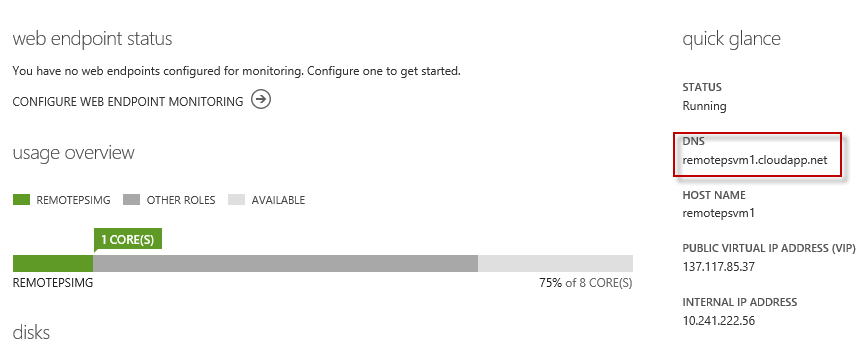
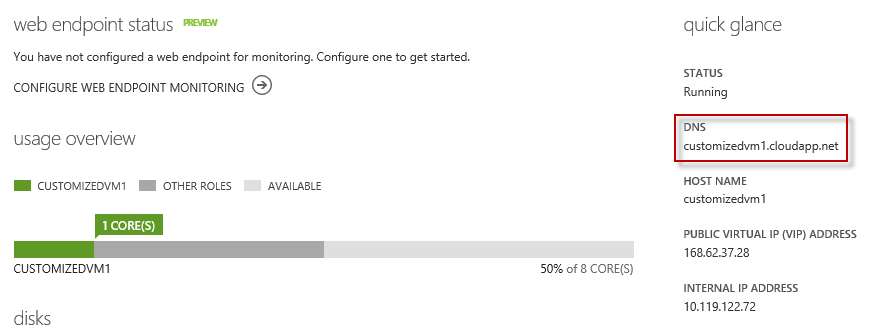
Updated steps in exercises 1 and 3. Updated Overview and Summary.

diff --git a/HOL.md b/HOL.md
@@ -5,7 +5,7 @@
 <a name="Overview" />
 ## Overview ##
 
-In this hands-on lab you will walk through creating a customized virtual machine that is customized to be remotely manageable via PowerShell. You will then learn how to generalize it and save it is an image so that all new virtual machines provisioned from it will be remotely manageable by default.
+In this hands-on lab you will walk through creating a customized virtual machine that is customized with Web Server role enabled. You will then learn how to generalize it and save it as an image so that all new virtual machines provisioned from it will have Web Server role enabled by default.
 
 <a name="Objectives" />
 ### Objectives ###
@@ -103,7 +103,11 @@ In this exercise we are going to customize the Virtual Machine by enabling the W
 
 In this step we will run sysprep to generalize the image. It will allow multiple virtual machines to be created having the same customized settings (remote PowerShell enabled).
 
-1. Type **Windows Key + R** to open the Run dialog.
+1. On the Start menu, start typing _run_, and then click Run.
+
+	![Open Run dialog](Images/start-run.png?raw=true)
+
+	_Open Run dialog_
 
 1. In the **Run** box write _c:\Windows\System32\sysprep\sysprep.exe_ and press Enter.
 
@@ -206,9 +210,9 @@ In this exercise you are going to create a new virtual machine using the image y
 	>**Note:** Before proceeding, ensure the endpoint configuration is complete.
 
 <a name="Ex4Task3" />
-#### Task 3: Connect from a Remote Client using PowerShell ####
+#### Task 3: Navigate to the IIS default web page ####
 
-1. To connect remotely you will need some information regarding the Virtual Machine. To obtain this information, you will log in to the Windows Azure Portal and go to your virtual machine's **Dashboard**.
+1. Log in to the Windows Azure Portal and go to your virtual machine's **Dashboard**.
 
 1. In the **Dashboard** page, locate and take note of the DNS.
 
@@ -216,34 +220,18 @@ In this exercise you are going to create a new virtual machine using the image y
 
 	_Obtaining Virtual Machine information_
 
-1. Open **Windows Powershell**.
+1. Open a web browser and navigate to the DNS address from the previous step. In this case _http://customizedvm1.cloudapp.net/_.
 
-1. Execute the following command to test the virtual machine connection. Update the placeholder with your virtual machine dns name. 
-	
-	<!-- mark:1 -->
-	````PowerShell
-	Enter-PSSession -computername [DNS-NAME] -authentication Basic -Credential administrator -UseSSL -SessionOption (New-PSSessionOption -SkipCACheck -SkipCNCheck)
-	````
+	![IIS default web page](Images/ie-iis.png?raw=true "IIS default web page")
 
-	>**Note:** To configure the same scenario for a domain joined computer you will need to use -Authentication Negotiate instead of Basic.
-
-1. To test that you were successfully connected to the virtual machine, you will run the following commands to see the remote file system. Notice that at the left of your prompt you can see the host name that you are connected to.
-
-	````CMD
-	cd\
-	dir
-	````
-
-	![remote-prompt](Images/remote-prompt.png?raw=true)
-
-	_Remote File System_
+	_IIS default web page_
 
 ---
 
 <a name="Summary" />
 ## Summary ##
 By completing this Hands-on Lab you have learned how to:
-
- - Configure PowerShell for remoting via HTTPS 
+ 
  - Customize and capture a virtual machine to the image library
- - Run remote commands on a virtual machine in Windows Azure IaaS
+ - Provision New Virtual Machines based off of the image
+ - Navigate to a virtual machine through HTTP
